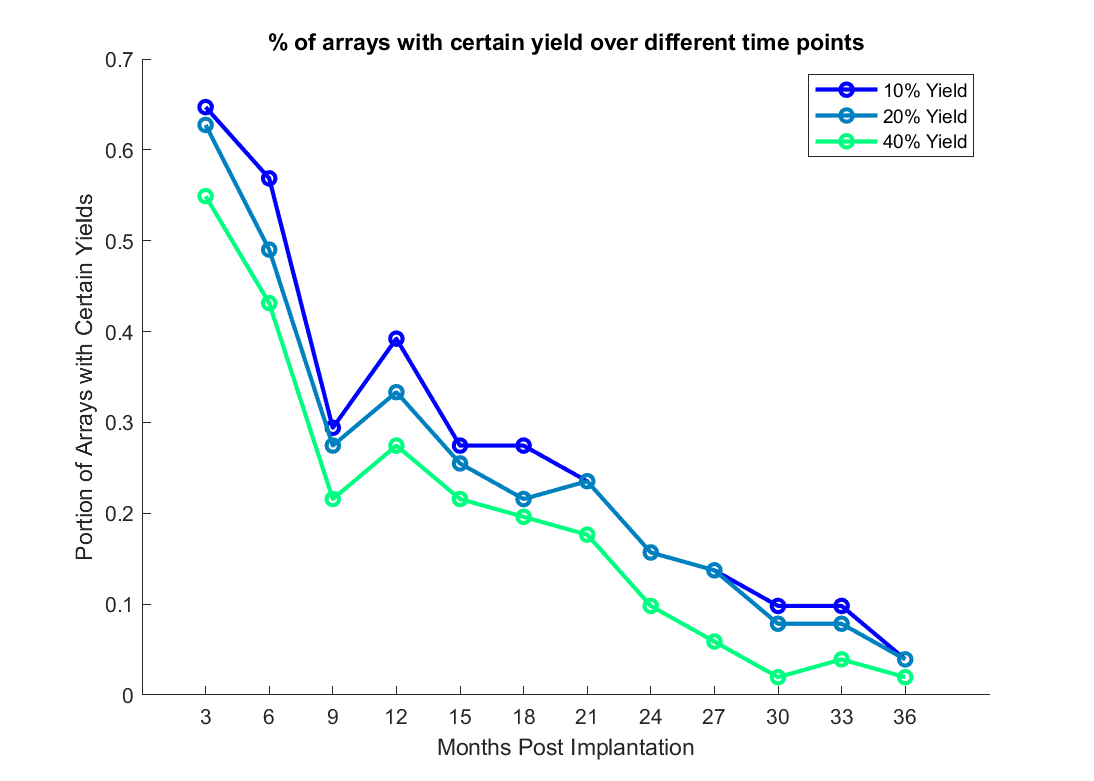
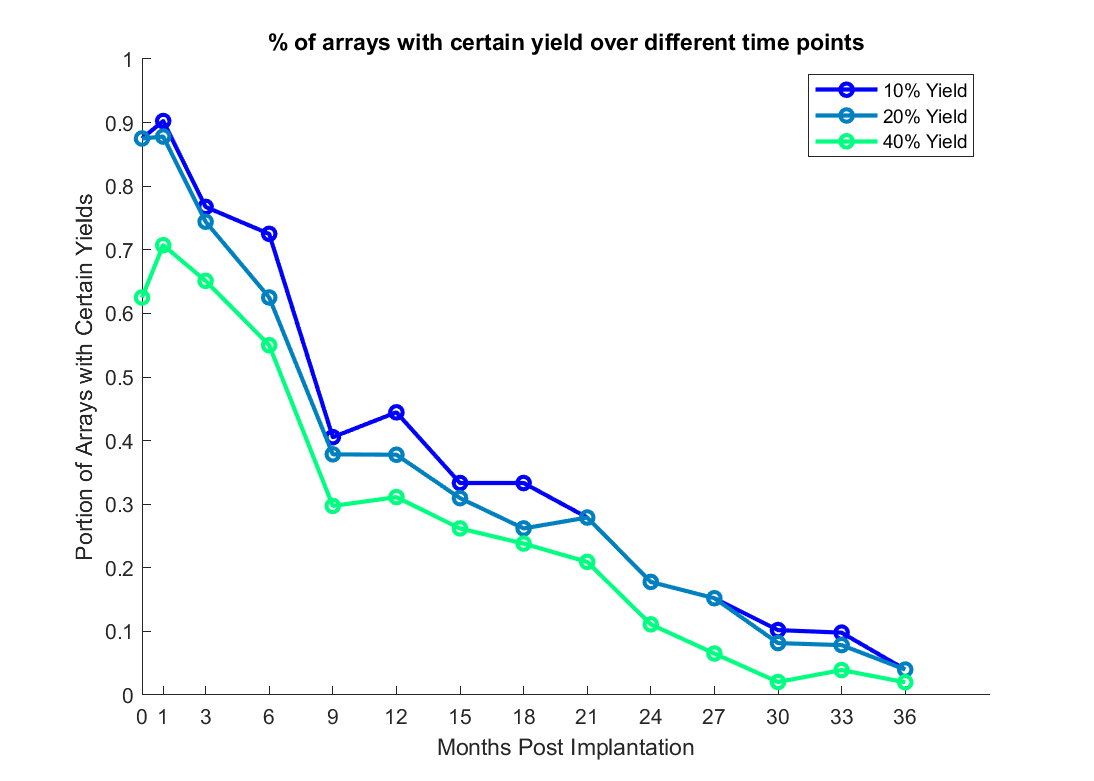
implement correct array proportion solution

diff --git a/code/paper_figures_code/figure_four.m b/code/paper_figures_code/figure_four.m
@@ -4,11 +4,11 @@ function figure_four(array_data)
 % decreases, communicating kind of a set of "expectations" you might have
 % about your given array's performance over time.
 
-% three different channel yield thresholds. 
+% three different channel yield thresholds.
 
 %% Calculating everything
 
-time_points_in_days = ((365/12)*3):((365/12)*3):(365*3);
+time_points_in_days = [0,((365/12)*1),((365/12)*3):((365/12)*3):(365*3)];
 one_month = 365/12;
 array_names = unique({array_data.array_name});
 yield_threshold(:,1) = round([array_data.total_num_of_channels]*.1);
@@ -21,33 +21,48 @@ all_good_channels_temp = [array_data.num_good_channels_corrected];
 
 for iThresh = 1:size(yield_threshold,2)
     num_arrays_above_threshold = zeros(numel(time_points_in_days),1);
+    num_arrays_in_window = zeros(numel(time_points_in_days),1);
     for iArray = 1:length(array_names)
         
         array_files_index = cellfun(@(x) strcmp(x,array_names{iArray}),all_array_names_temp);
         array_relative_days = all_days_temp(array_files_index);
-        array_yield_thresh = yield_threshold(array_files_index,iThresh);
+        array_yield_thresh = yield_threshold(array_files_index,iThresh)';
         array_num_good_channels = all_good_channels_temp(array_files_index);
         
         for iTimePoint = 1:length(time_points_in_days)
             file_above_thresh = 0;
+            count_array_in_proportion = 0;
             for iFile = 1:length(array_relative_days)
                 % we take a window of time around each three month point in
                 % order to capture enough data points to make an average.
                 % We have no guarantee that enough data was recorded at
                 % exact three-month intervals, so we have to average across
                 % a rough time window.
-                if (((time_points_in_days(iTimePoint)- one_month) < array_relative_days(iFile)) && ...
-                        (array_relative_days(iFile) < (time_points_in_days(iTimePoint)+ one_month))) && ...
-                        (array_num_good_channels(iFile) > array_yield_thresh(iFile))
-                    file_above_thresh = 1;
+                
+                if max(array_relative_days) > (time_points_in_days(iTimePoint)- one_month)
+                    if (((time_points_in_days(iTimePoint)- one_month) < array_relative_days(iFile)) && ...
+                            (array_relative_days(iFile) < (time_points_in_days(iTimePoint)+ one_month))) && ...
+                            (array_num_good_channels(iFile) > array_yield_thresh(iFile))
+                        file_above_thresh = 1;
+                        count_array_in_proportion = 1;
+                    elseif (((time_points_in_days(iTimePoint)- one_month) < array_relative_days(iFile)) && ...
+                            (array_relative_days(iFile) < (time_points_in_days(iTimePoint)+ one_month)))
+                        count_array_in_proportion = 1;
+                    end
+                elseif  max(array_relative_days) < (time_points_in_days(iTimePoint)- one_month)
+                    count_array_in_proportion = 1;
                 end
             end
             num_arrays_above_threshold(iTimePoint) = num_arrays_above_threshold(iTimePoint) + file_above_thresh;
+            num_arrays_in_window(iTimePoint) = num_arrays_in_window(iTimePoint) + count_array_in_proportion;
         end
     end
     
-    percent_arrays_above_threshold(:,iThresh) = num_arrays_above_threshold / length(array_names);
+    for iTimePoint = 1:length(time_points_in_days)
+        percent_arrays_above_threshold(iTimePoint,iThresh) = num_arrays_above_threshold(iTimePoint) / num_arrays_in_window(iTimePoint);
+    end
     clear num_arrays_above_threshold
+    clear num_arrays_in_window
 end
 
 %% plotting everything
